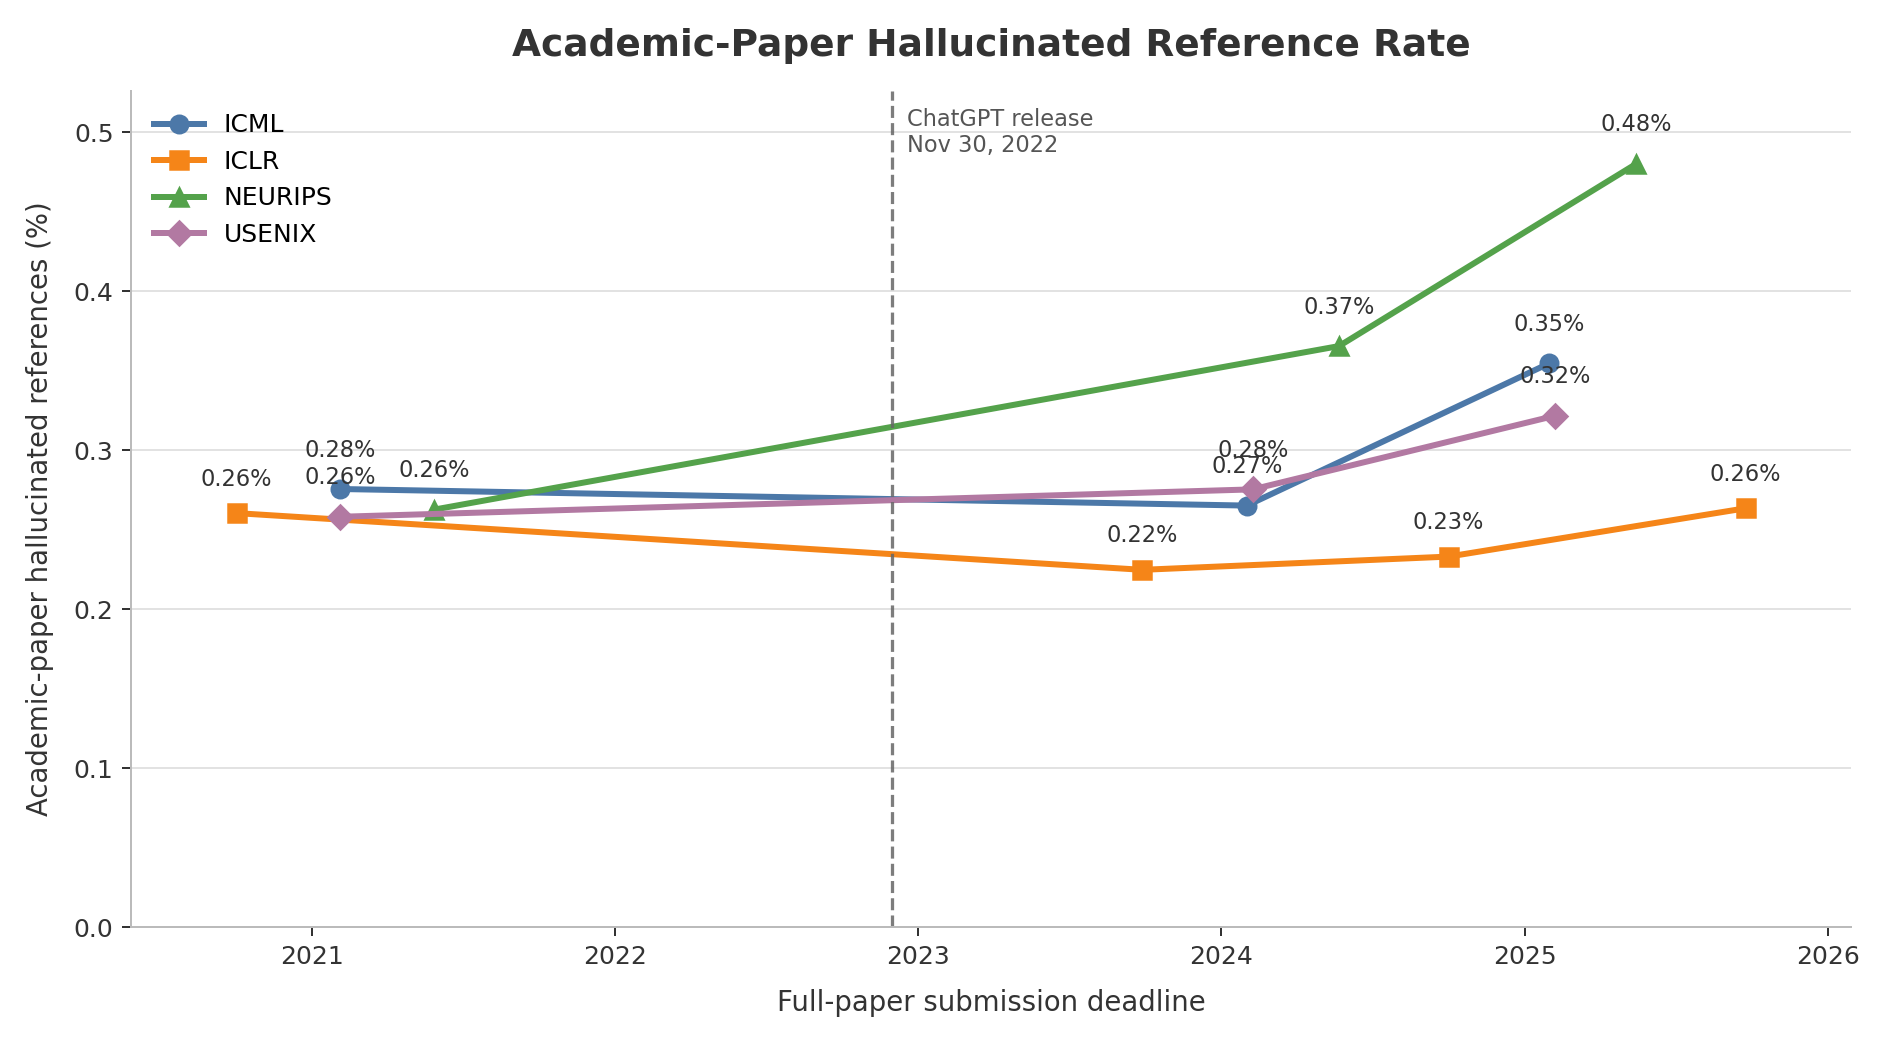
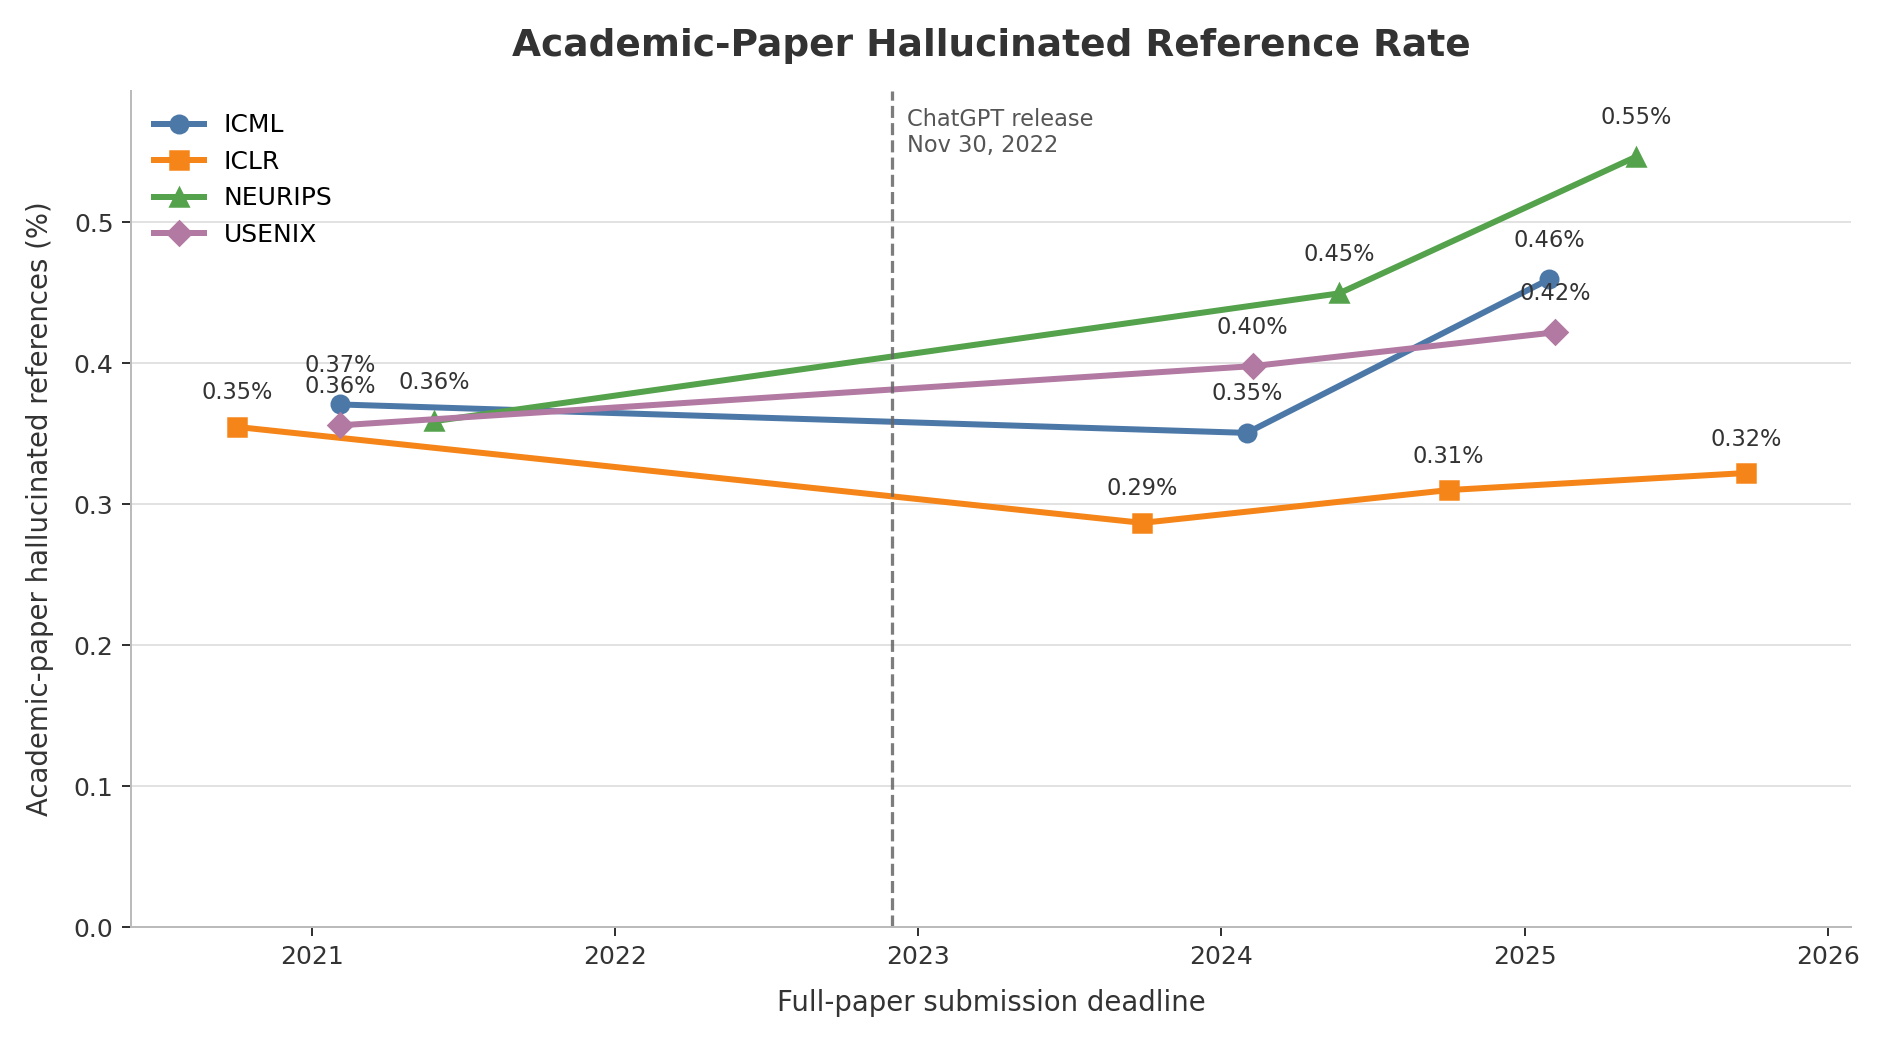
Add academic hallucination overview charts

diff --git a/scripts/generate_overview_hallucination_rate_chart.py b/scripts/generate_overview_hallucination_rate_chart.py
@@ -14,6 +14,7 @@ from typing import Any
 
 ROOT = Path(__file__).resolve().parent.parent
 DEFAULT_OUTPUT = ROOT / "_workspace" / "overview" / "papers_with_ge2_flags_by_year.png"
+DEFAULT_ACADEMIC_PAPER_OUTPUT = ROOT / "_workspace" / "overview" / "papers_with_ge2_academic_flags_by_year.png"
 DEFAULT_REFERENCE_OUTPUT = ROOT / "_workspace" / "overview" / "hallucinated_reference_rate_by_year.png"
 DEFAULT_ACADEMIC_REFERENCE_OUTPUT = ROOT / "_workspace" / "overview" / "academic_paper_hallucinated_reference_rate_by_year.png"
 CONFERENCE_DIR_RE = re.compile(r"^(iclr|icml|neurips|usenix-security)(\d{4})$")
@@ -32,12 +33,20 @@ ACADEMIC_URL_RE = re.compile(
     r"\b(arxiv\.org|doi\.org|dl\.acm\.org|ieeexplore\.ieee\.org|springer\.com|"
     r"link\.springer\.com|sciencedirect\.com|aclanthology\.org|openreview\.net|"
     r"proceedings\.mlr\.press|proceedings\.neurips\.cc|jmlr\.org|usenix\.org/"
-    r"(?:conference|system/files)|hal\.science|eprint\.iacr\.org)\b",
+    r"(?:conference|system/files)|hal\.science|eprint\.iacr\.org|semanticscholar\.org|"
+    r"projecteuclid\.org|academic\.oup\.com|oup\.com|onlinelibrary\.wiley\.com|"
+    r"wiley\.com|cambridge\.org|tandfonline\.com|sagepub\.com|informs\.org|"
+    r"siam\.org|ams\.org|nber\.org|ssrn\.com|biorxiv\.org|medrxiv\.org|"
+    r"pubmed\.ncbi\.nlm\.nih\.gov|pmc\.ncbi\.nlm\.nih\.gov|frontiersin\.org|"
+    r"mdpi\.com|nature\.com|science\.org|cell\.com|pnas\.org|plos\.org)\b",
     re.IGNORECASE,
 )
 ACADEMIC_TEXT_RE = re.compile(
     r"\b(arxiv|doi|preprint|proceedings|conference|symposium|workshop|journal|"
-    r"transactions|thesis|dissertation|acm|ieee|usenix|ndss|ccs|neurips|icml|"
+    r"transactions|technical report|tech report|research report|working paper|"
+    r"lecture notes|book chapter|monograph|university press|mit press|princeton "
+    r"university press|cambridge university press|oxford university press|wiley|"
+    r"now publishers|foundations and trends|thesis|dissertation|acm|ieee|usenix|ndss|ccs|neurips|icml|"
     r"iclr|cvpr|iccv|eccv|acl|emnlp|naacl|sigir|kdd|sigmod|vldb|pods|sosp|"
     r"osdi|asplos|eurocrypt|crypto|asiacrypt|popets|pets|pmlr|openreview|"
     r"springer|elsevier|jmlr|aaai|ijcai)\b",
@@ -89,6 +98,7 @@ class ConferencePoint:
     year: int
     total_papers: int
     papers_with_flags: int
+    papers_with_academic_flags: int
     total_references: int
     hallucinated_references: int
     academic_hallucinated_references: int
@@ -103,6 +113,10 @@ class ConferencePoint:
     @property
     def paper_rate(self) -> float:
         return self.papers_with_flags / self.total_papers * 100
+
+    @property
+    def academic_paper_rate(self) -> float:
+        return self.papers_with_academic_flags / self.total_papers * 100
 
     @property
     def reference_rate(self) -> float:
@@ -196,8 +210,17 @@ def scan_points(workspace_dir: Path) -> list[ConferencePoint]:
         total_papers = int(summary.get("total_papers_processed") or len(papers) or 0)
         total_references = int(summary.get("total_references_processed") or 0)
         hallucinated_references = int(summary.get("flagged_records") or 0)
-        academic_hallucinated_references = sum(
-            1 for record in report.get("records", []) if is_academic_paper_flag(record)
+        academic_flag_counts_by_paper: dict[str, int] = {}
+        for record in report.get("records", []):
+            if not is_academic_paper_flag(record):
+                continue
+            paper_id = str(record.get("source_paper_id") or "")
+            if paper_id:
+                academic_flag_counts_by_paper[paper_id] = academic_flag_counts_by_paper.get(paper_id, 0) + 1
+
+        academic_hallucinated_references = sum(academic_flag_counts_by_paper.values())
+        papers_with_academic_flags = sum(
+            1 for flag_count in academic_flag_counts_by_paper.values() if flag_count >= FLAG_THRESHOLD
         )
         papers_with_flags = sum(
             1
@@ -220,6 +243,7 @@ def scan_points(workspace_dir: Path) -> list[ConferencePoint]:
                 year=parsed_year,
                 total_papers=total_papers,
                 papers_with_flags=papers_with_flags,
+                papers_with_academic_flags=papers_with_academic_flags,
                 total_references=total_references,
                 hallucinated_references=hallucinated_references,
                 academic_hallucinated_references=academic_hallucinated_references,
@@ -340,6 +364,16 @@ def render_paper_chart(points: list[ConferencePoint], output_path: Path) -> None
     )
 
 
+def render_academic_paper_chart(points: list[ConferencePoint], output_path: Path) -> None:
+    render_timeline_chart(
+        points,
+        output_path,
+        title="Papers With At Least 2 Academic-Paper Hallucination Flags",
+        ylabel="Papers with >=2 academic-paper flags (%)",
+        rate_attr="academic_paper_rate",
+    )
+
+
 def render_reference_chart(points: list[ConferencePoint], output_path: Path) -> None:
     render_timeline_chart(
         [point for point in points if point.total_references > 0],
@@ -369,6 +403,19 @@ def write_data_table(points: list[ConferencePoint], output_path: Path) -> None:
             f"{point.conference},{point.year},{point.submission_deadline.isoformat()},"
             f"{point.total_papers},"
             f"{point.papers_with_flags},{point.paper_rate:.6f}"
+        )
+    output_path.write_text("\n".join(lines) + "\n", encoding="utf-8")
+
+
+def write_academic_paper_data_table(points: list[ConferencePoint], output_path: Path) -> None:
+    lines = [
+        "conference,year,submission_deadline,total_papers,papers_with_ge2_academic_flags,academic_paper_rate_percent"
+    ]
+    for point in sorted(points, key=lambda item: item.submission_deadline):
+        lines.append(
+            f"{point.conference},{point.year},{point.submission_deadline.isoformat()},"
+            f"{point.total_papers},"
+            f"{point.papers_with_academic_flags},{point.academic_paper_rate:.6f}"
         )
     output_path.write_text("\n".join(lines) + "\n", encoding="utf-8")
 
@@ -426,6 +473,18 @@ def parse_args() -> argparse.Namespace:
         help="Output CSV path for chart data.",
     )
     parser.add_argument(
+        "--academic-paper-output",
+        type=Path,
+        default=DEFAULT_ACADEMIC_PAPER_OUTPUT,
+        help="Output PNG path for the >=2 academic-paper flags chart.",
+    )
+    parser.add_argument(
+        "--academic-paper-data-output",
+        type=Path,
+        default=DEFAULT_ACADEMIC_PAPER_OUTPUT.with_suffix(".csv"),
+        help="Output CSV path for >=2 academic-paper flags chart data.",
+    )
+    parser.add_argument(
         "--reference-output",
         type=Path,
         default=DEFAULT_REFERENCE_OUTPUT,
@@ -456,13 +515,17 @@ def main() -> None:
     args = parse_args()
     points = scan_points(args.workspace_dir)
     render_paper_chart(points, args.output)
+    render_academic_paper_chart(points, args.academic_paper_output)
     render_reference_chart(points, args.reference_output)
     render_academic_reference_chart(points, args.academic_reference_output)
     write_data_table(points, args.data_output)
+    write_academic_paper_data_table(points, args.academic_paper_data_output)
     write_reference_data_table(points, args.reference_data_output)
     write_academic_reference_data_table(points, args.academic_reference_data_output)
     print(f"Wrote {args.output}")
     print(f"Wrote {args.data_output}")
+    print(f"Wrote {args.academic_paper_output}")
+    print(f"Wrote {args.academic_paper_data_output}")
     print(f"Wrote {args.reference_output}")
     print(f"Wrote {args.reference_data_output}")
     print(f"Wrote {args.academic_reference_output}")

diff --git a/scripts/generate_final_reports.py b/scripts/generate_final_reports.py
@@ -78,6 +78,14 @@ def generate_overview(workspace_dir: Path, reports_dir: Path) -> None:
     points = overview_report.scan_points(workspace_dir)
     overview_report.render_paper_chart(points, output_dir / "papers_with_ge2_flags_by_year.png")
     overview_report.write_data_table(points, output_dir / "papers_with_ge2_flags_by_year.csv")
+    overview_report.render_academic_paper_chart(
+        points,
+        output_dir / "papers_with_ge2_academic_flags_by_year.png",
+    )
+    overview_report.write_academic_paper_data_table(
+        points,
+        output_dir / "papers_with_ge2_academic_flags_by_year.csv",
+    )
     overview_report.render_reference_chart(points, output_dir / "hallucinated_reference_rate_by_year.png")
     overview_report.write_reference_data_table(
         points,
@@ -93,6 +101,8 @@ def generate_overview(workspace_dir: Path, reports_dir: Path) -> None:
     )
     print(f"Wrote {output_dir / 'papers_with_ge2_flags_by_year.png'}")
     print(f"Wrote {output_dir / 'papers_with_ge2_flags_by_year.csv'}")
+    print(f"Wrote {output_dir / 'papers_with_ge2_academic_flags_by_year.png'}")
+    print(f"Wrote {output_dir / 'papers_with_ge2_academic_flags_by_year.csv'}")
     print(f"Wrote {output_dir / 'hallucinated_reference_rate_by_year.png'}")
     print(f"Wrote {output_dir / 'hallucinated_reference_rate_by_year.csv'}")
     print(f"Wrote {output_dir / 'academic_paper_hallucinated_reference_rate_by_year.png'}")

diff --git a/scripts/run_conference_scan.py b/scripts/run_conference_scan.py
@@ -123,6 +123,10 @@ def build_overview_command(root: Path, output_dir: Path | None = None) -> list[s
                 str(output_dir / "papers_with_ge2_flags_by_year.png"),
                 "--data-output",
                 str(output_dir / "papers_with_ge2_flags_by_year.csv"),
+                "--academic-paper-output",
+                str(output_dir / "papers_with_ge2_academic_flags_by_year.png"),
+                "--academic-paper-data-output",
+                str(output_dir / "papers_with_ge2_academic_flags_by_year.csv"),
                 "--reference-output",
                 str(output_dir / "hallucinated_reference_rate_by_year.png"),
                 "--reference-data-output",

diff --git a/reports/iclr/2021/hallucination_report.md b/reports/iclr/2021/hallucination_report.md
@@ -1,6 +1,6 @@
 # ICLR 2021 Hallucinated Reference Report
 
-Generated: 2026-05-20 02:47:00 UTC
+Generated: 2026-05-20 13:28:22 UTC
 
 Source: `_workspace/iclr2021/results/scan_report.json`
 

diff --git a/reports/iclr/2024/hallucination_report.md b/reports/iclr/2024/hallucination_report.md
@@ -1,6 +1,6 @@
 # ICLR 2024 Hallucinated Reference Report
 
-Generated: 2026-05-20 02:47:03 UTC
+Generated: 2026-05-20 13:28:25 UTC
 
 Source: `_workspace/iclr2024/results/scan_report.json`
 

diff --git a/reports/iclr/2025/hallucination_report.md b/reports/iclr/2025/hallucination_report.md
@@ -1,6 +1,6 @@
 # ICLR 2025 Hallucinated Reference Report
 
-Generated: 2026-05-20 02:47:09 UTC
+Generated: 2026-05-20 13:28:31 UTC
 
 Source: `_workspace/iclr2025/results/scan_report.json`
 

diff --git a/reports/iclr/2026/hallucination_report.md b/reports/iclr/2026/hallucination_report.md
@@ -1,6 +1,6 @@
 # ICLR 2026 Hallucinated Reference Report
 
-Generated: 2026-05-20 02:47:18 UTC
+Generated: 2026-05-20 13:28:40 UTC
 
 Source: `_workspace/iclr2026/results/scan_report.json`
 

diff --git a/reports/icml/2021/hallucination_report.md b/reports/icml/2021/hallucination_report.md
@@ -1,6 +1,6 @@
 # ICML 2021 Hallucinated Reference Report
 
-Generated: 2026-05-20 02:47:19 UTC
+Generated: 2026-05-20 13:28:42 UTC
 
 Source: `_workspace/icml2021/results/scan_report.json`
 

diff --git a/reports/icml/2024/hallucination_report.md b/reports/icml/2024/hallucination_report.md
@@ -1,6 +1,6 @@
 # ICML 2024 Hallucinated Reference Report
 
-Generated: 2026-05-20 02:47:23 UTC
+Generated: 2026-05-20 13:28:46 UTC
 
 Source: `_workspace/icml2024/results/scan_report.json`
 

diff --git a/reports/icml/2025/hallucination_report.md b/reports/icml/2025/hallucination_report.md
@@ -1,6 +1,6 @@
 # ICML 2025 Hallucinated Reference Report
 
-Generated: 2026-05-20 02:47:28 UTC
+Generated: 2026-05-20 13:28:51 UTC
 
 Source: `_workspace/icml2025/results/scan_report.json`
 

diff --git a/reports/neurips/2021/hallucination_report.md b/reports/neurips/2021/hallucination_report.md
@@ -1,6 +1,6 @@
 # NEURIPS 2021 Hallucinated Reference Report
 
-Generated: 2026-05-20 02:47:31 UTC
+Generated: 2026-05-20 13:28:54 UTC
 
 Source: `_workspace/neurips2021/results/scan_report.json`
 

diff --git a/reports/neurips/2024/hallucination_report.md b/reports/neurips/2024/hallucination_report.md
@@ -1,6 +1,6 @@
 # NEURIPS 2024 Hallucinated Reference Report
 
-Generated: 2026-05-20 02:47:38 UTC
+Generated: 2026-05-20 13:29:01 UTC
 
 Source: `_workspace/neurips2024/results/scan_report.json`
 